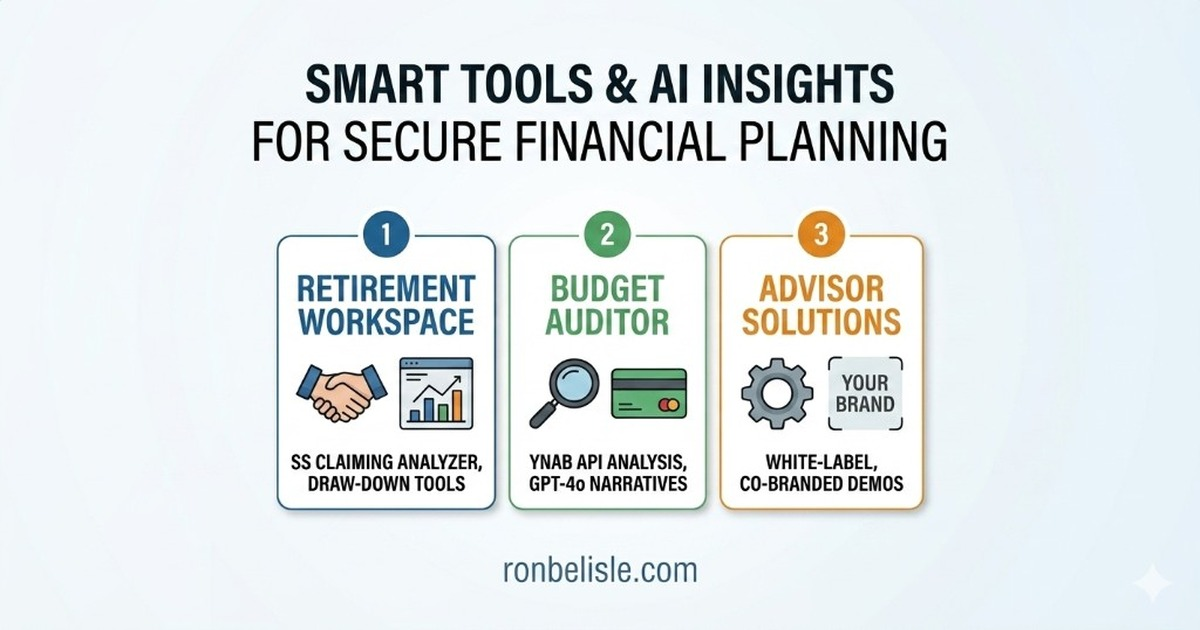
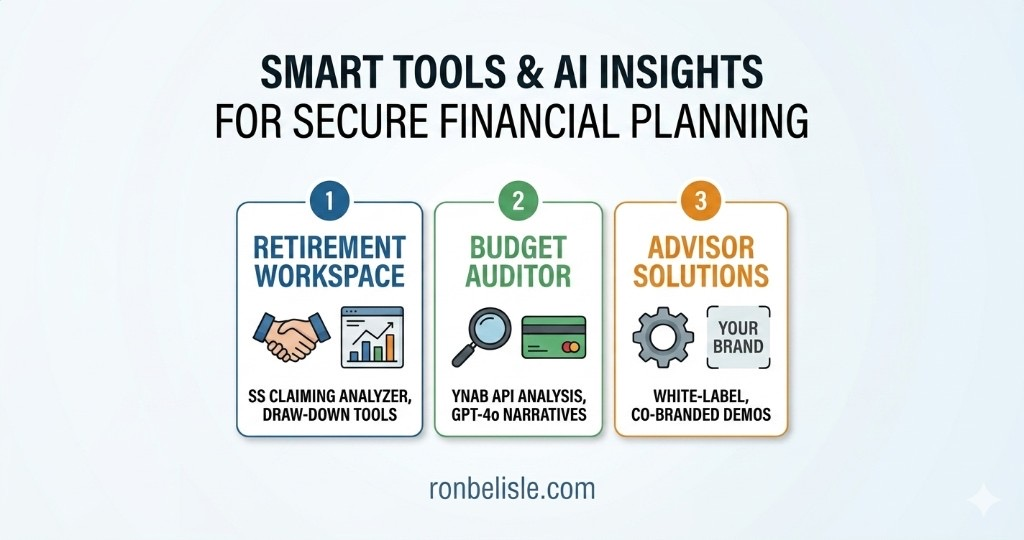
Refresh OG default image and remove obsolete regen script
Re-optimize og-default.jpg/png and drop the one-off
update_og_default_image.py generator plus its stale doc reference.

diff --git a/includes/og-twitter-meta.php b/includes/og-twitter-meta.php
@@ -5,7 +5,6 @@
  * Optional: $og_image (absolute URL), $og_image_alt, $og_site_name
  *
  * Default share image: /images/og-default.jpg (1200×630 JPEG; also keep og-default.png if needed).
- * Source/master artwork: /images/og-default.base.png — regenerate with tools/update_og_default_image.py
  */
 require_once __DIR__ . '/seo_public_url.php';
 if (empty($og_title)) $og_title = '';